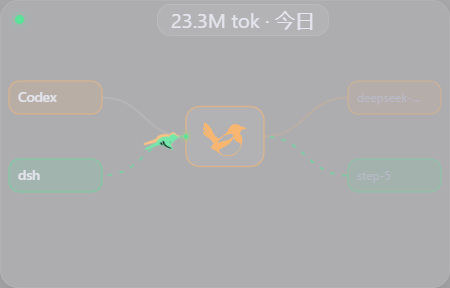
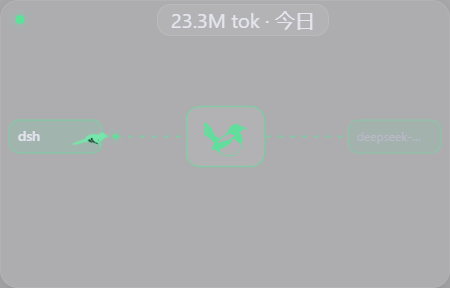
淡出竞态修复；更新截图

diff --git a/web/app.js b/web/app.js
@@ -460,7 +460,9 @@ async function runFlight(flight) {
       await waitFor(flight, r => Boolean((r.tries || [])[index]));
     }
   } finally {
-    if (flights.has(flight.id) && flight.dismissing) dispose(flight);
+    // A fading flight owns its own delayed dispose; only an abrupt exit
+    // (cancellation, reset) cleans up here.
+    if (flights.has(flight.id) && !flight.dismissing) dispose(flight);
   }
 }
 
